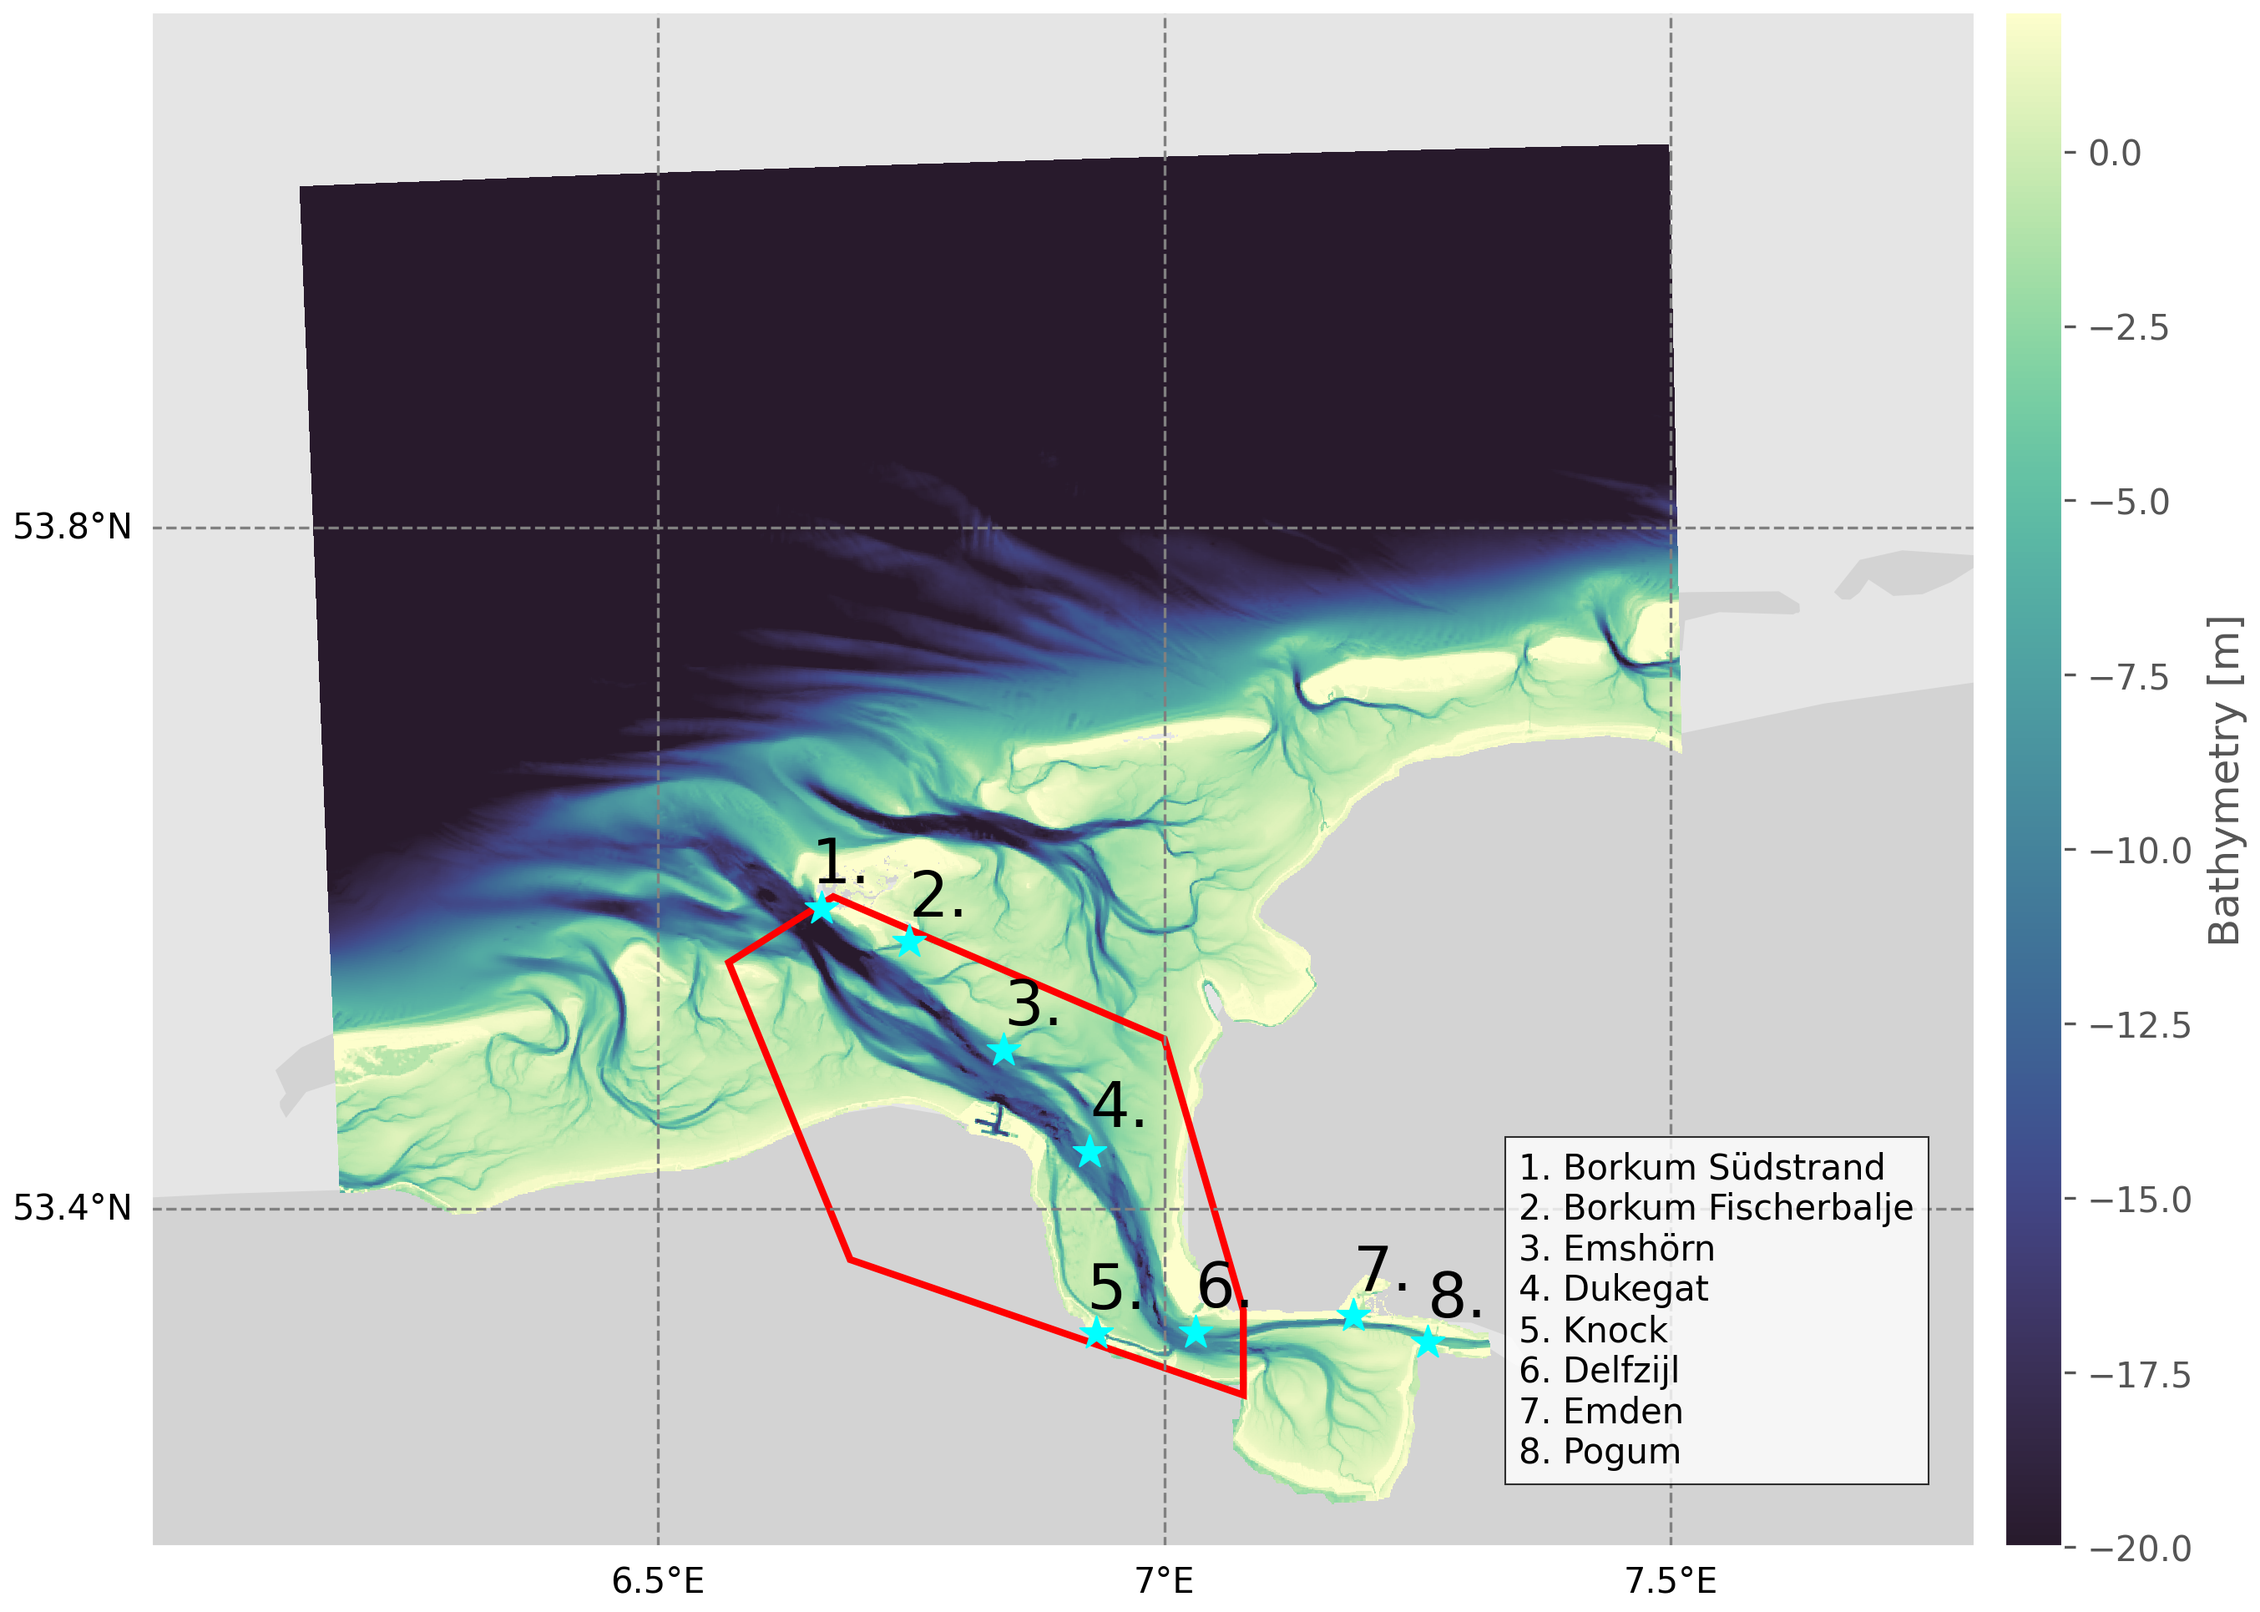
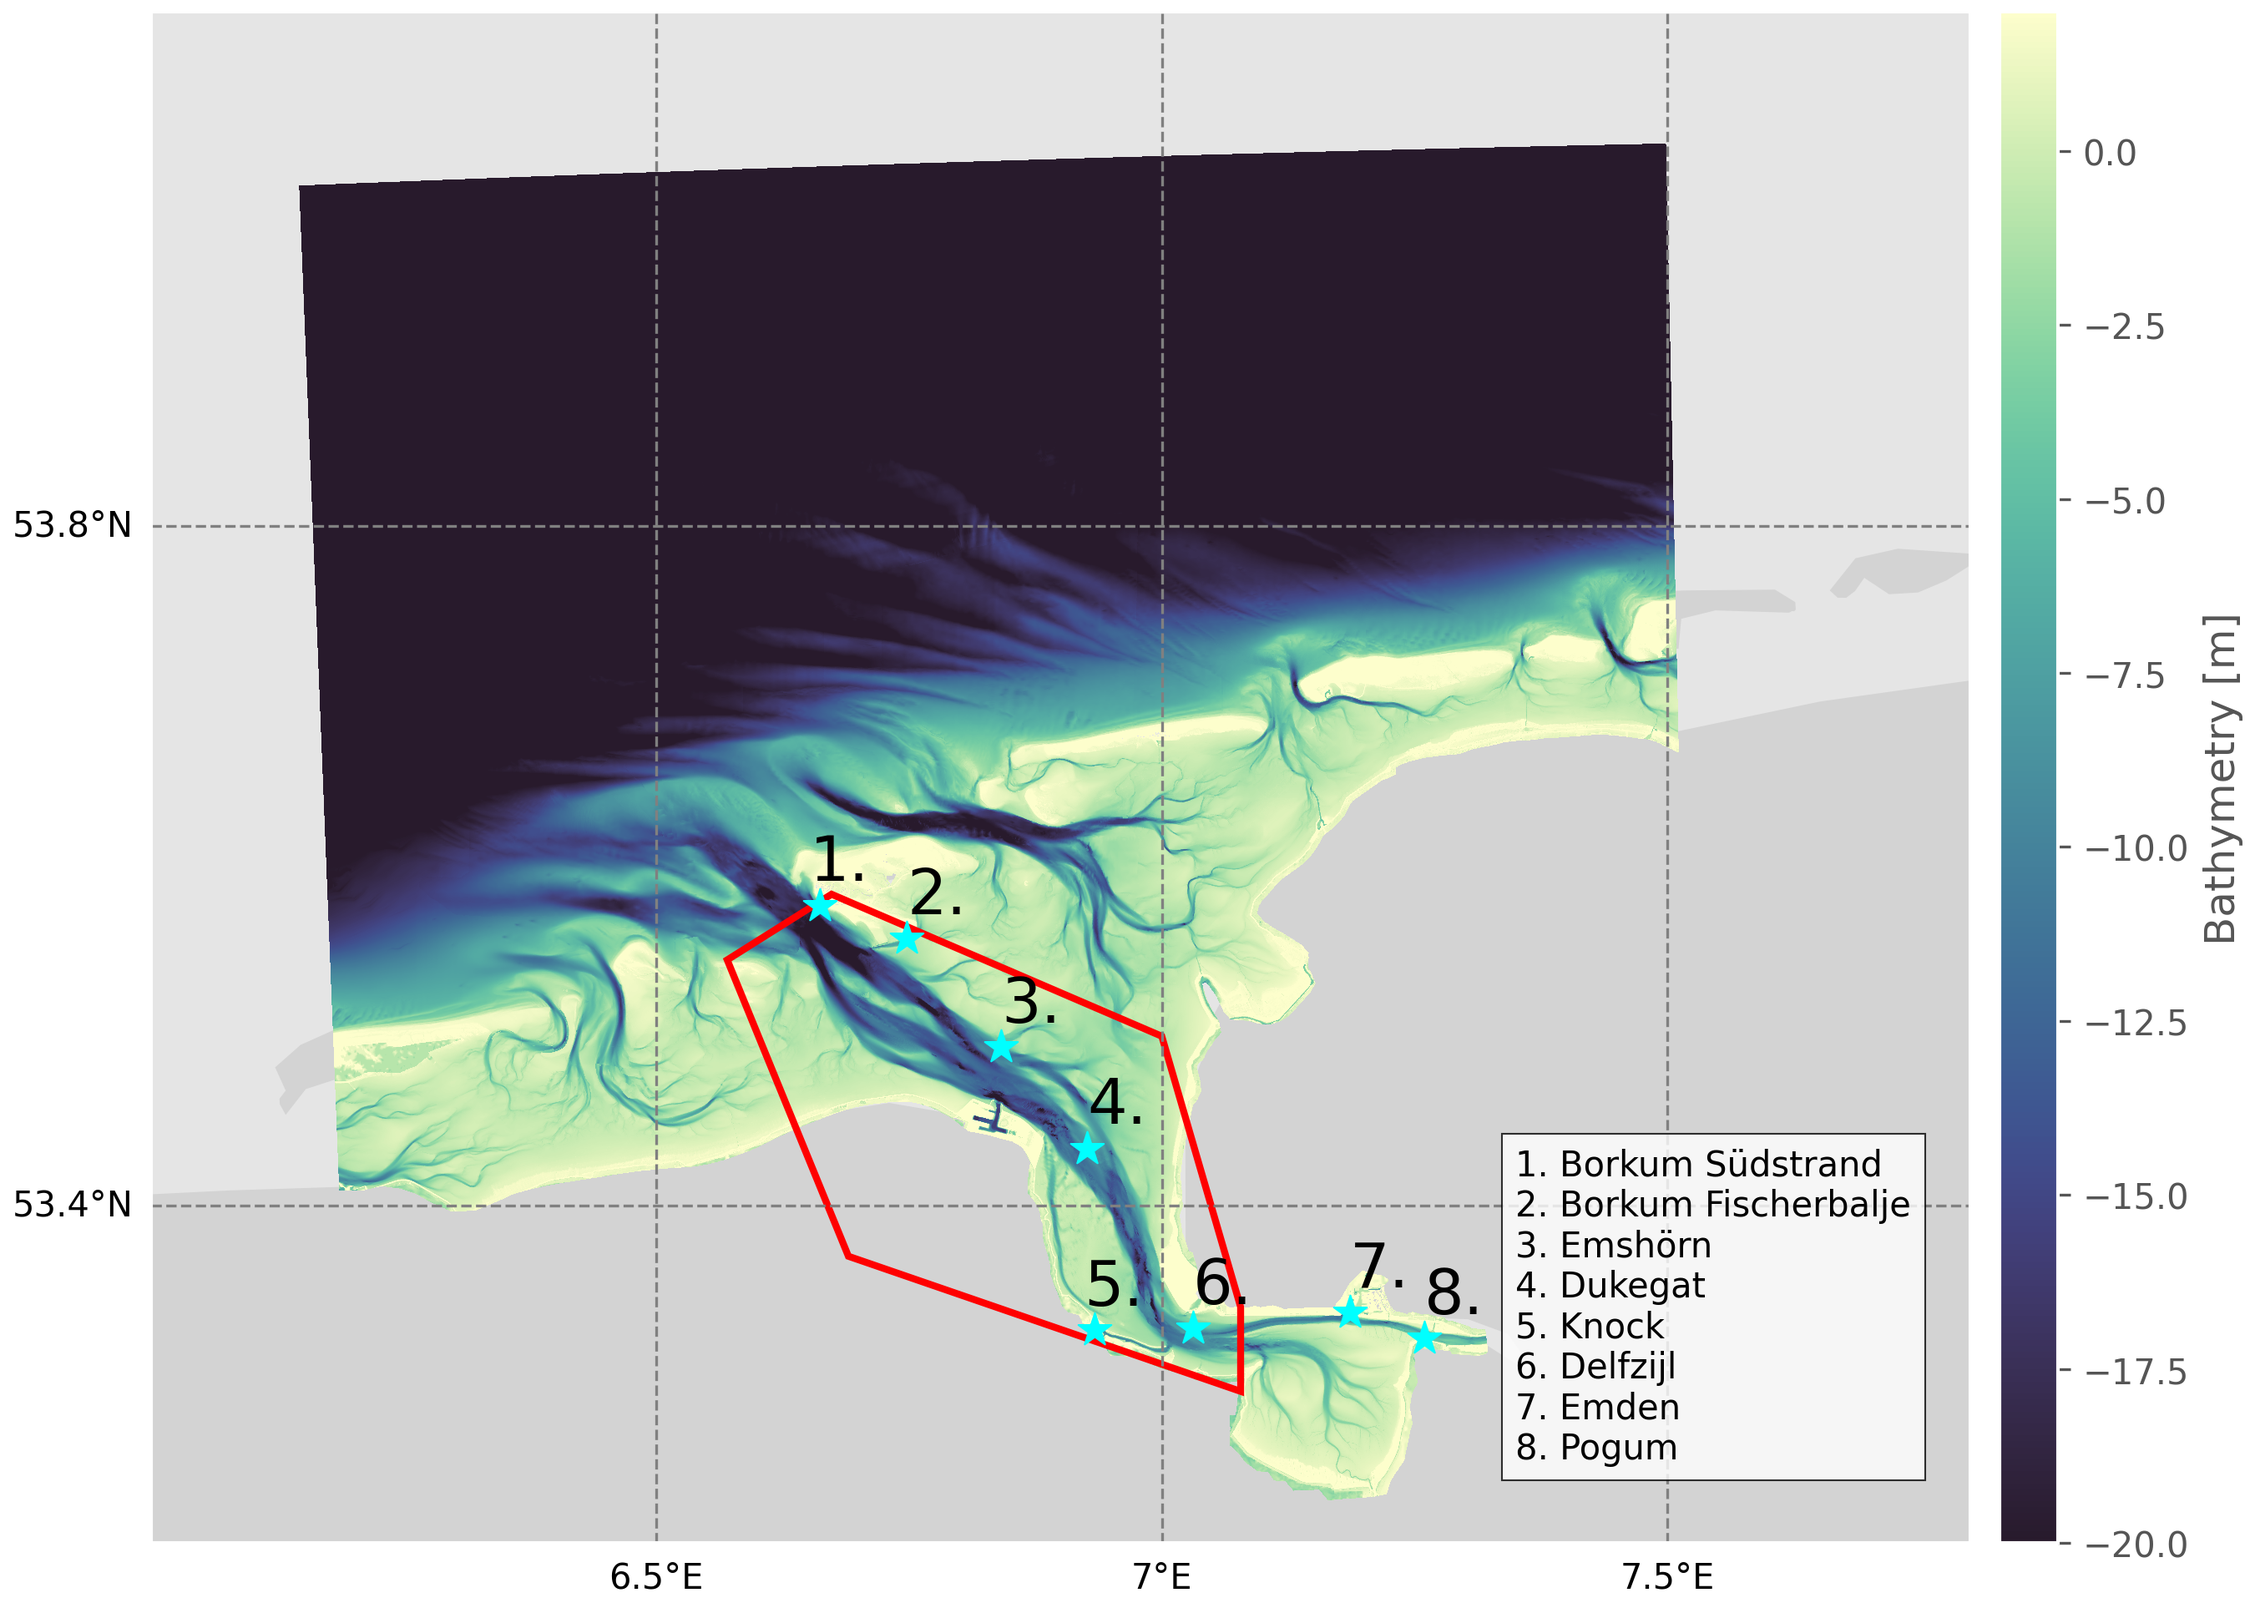
remove unncessary lines

Changed region(s): [[0.6842, 0.7165, 0.8397, 0.9034], [0.9641, 0.5296, 0.9952, 0.5607], [0.5909, 0.7788, 0.622, 0.81]]

diff --git a/scripts/visualization/Figure1.py b/scripts/visualization/Figure1.py
@@ -1,10 +1,5 @@
 #!/usr/bin/env python3
 # -*- coding: utf-8 -*-
-"""
-Created on Mon Dec  8 11:50:04 2025
-
-@author: kbhaakman
-"""
 
 import matplotlib.pyplot as plt
 import sys #to be able to load functions from paper_helper_functions.py inside analysis folder
@@ -39,7 +34,6 @@ polygon_enclosed = [
 poly_enclosed = Polygon(polygon_enclosed, edgecolor='red', facecolor='none', linewidth=2, transform=ccrs.PlateCarree())
 
 def main():
-    
     lons, lats = [], []
     PSMSL_lons, PSMSL_lats = [], []
 
@@ -53,16 +47,13 @@ def main():
             lons.append(lon)
             lats.append(lat)
         
-    
     fig = plt.figure(figsize=(11.69,8.27))
     ax = fig.add_subplot(1, 1, 1, projection=ccrs.Mercator(central_longitude=0))
     ax.scatter(lons, lats, c='cyan', s=100, marker='*', label='Not in PSMSL', transform=ccrs.PlateCarree(), zorder=10)
     ax.scatter(PSMSL_lons, PSMSL_lats, c='cyan', s=100, marker='*', label='PSMSL',  transform=ccrs.PlateCarree(), zorder=10)
-    bathy_im = plot_bathymetry_ems(ax, downsampling_factor=8)
+    bathy_im = plot_bathymetry_ems(ax, downsampling_factor=1)
     ax.add_patch(poly_enclosed)
     ax.add_feature(cfeature.LAND, facecolor='lightgray')
-    #ax.coastlines()
-    #ax.legend(loc='lower left')
     
     dy = 0.015
     fs = 18
@@ -89,7 +80,6 @@ def main():
         gl.ylocator = lat_gridlines
     except NameError:
         pass
-    
     
 
     # Make numbered multiline string

diff --git a/scripts/analysis/paper_helper_functions.py b/scripts/analysis/paper_helper_functions.py
@@ -1,10 +1,6 @@
 #!/usr/bin/env python3
 # -*- coding: utf-8 -*-
-"""
-Created on Mon Jul 13 11:37:39 2026
 
-@author: kbhaakman
-"""
 import numpy as np
 from pyproj import Transformer
 import matplotlib.pyplot as plt
@@ -74,7 +70,7 @@ def downsample_average(array, factor):
 
 
 def plot_bathymetry_ems(ax, downsampling_factor=8):
-    fn = '/Users/kbhaakman/Documents/PhD/data/EasyGSH-DB_bathymetry_harmonized_nodata/topography_2009_ger.tif'
+    fn = '../../data/bathymetry/topography_2009_ger.tif'
     lon_min, lon_max = 6.2, 7.5
     lat_min, lat_max = 53.2, 54.0
     
@@ -153,7 +149,7 @@ def spatial_map(x, y, z, fig=None, ax=None, vmin=None, vmax=None, cmap=None, alp
     ax.set_title(title)
     #fig.canvas.callbacks.connect('pick_event', on_pick)
     if savename != '':
-        fig.savefig('/Users/kbhaakman/Desktop/{}'.format(savename), dpi=300, bbox_inches='tight', pad_inches=0.05)
+        fig.savefig('../../figures/{}'.format(savename), dpi=300, bbox_inches='tight', pad_inches=0.05)
     return fig, ax
 
 

diff --git a/scripts/visualization/Figure2.py b/scripts/visualization/Figure2.py
@@ -1,10 +1,6 @@
 #!/usr/bin/env python3
 # -*- coding: utf-8 -*-
-"""
-Created on Mon Nov  3 11:58:55 2025
 
-@author: kbhaakman
-"""
 import numpy as np
 import pandas as pd
 import matplotlib.pyplot as plt
@@ -13,8 +9,6 @@ plt.style.use('ggplot')
 plt.rcParams.update({'font.size': 16})
 
 percentile = 1  # for example
-#fn = '/Users/kbhaakman/Documents/PhD/tidal-asymmetry-trends/data/Quantile Regression-based Elevation Changes per Region.xlsx'
-#sheet = 'Ems-Dollard'
 
 fn = '../../data/bathymetry/Quantile Regression-based Elevation Changes per Morph. Unit.xlsx'
 sheet = 'EemsDollard'

diff --git a/scripts/analysis/DCSM_his_dynamic_meteo_dynamic_bathymetry.py b/scripts/analysis/DCSM_his_dynamic_meteo_dynamic_bathymetry.py
@@ -1,23 +1,15 @@
 #!/usr/bin/env python3
 # -*- coding: utf-8 -*-
-"""
-Created on Fri Jan 16 11:52:44 2026
 
-@author: kbhaakman
-"""
 import numpy as np
 import xarray as xr
 import matplotlib.pyplot as plt
 import pandas as pd
 import re
 import hatyan
-
-
 plt.style.use('ggplot')
 
 station = 'knock'
-
-
 
 DCSM_names = {
   'borkumfischerbalje': 'BorkumFischerbalje',

diff --git a/scripts/visualization/Figure7.py b/scripts/visualization/Figure7.py
@@ -1,10 +1,6 @@
 #!/usr/bin/env python3
 # -*- coding: utf-8 -*-
-"""
-Created on Mon Jul 20 11:47:14 2026
 
-@author: kbhaakman
-"""
 import matplotlib.pyplot as plt
 import numpy as np
 from matplotlib.ticker import MaxNLocator

diff --git a/scripts/visualization/Figure6.py b/scripts/visualization/Figure6.py
@@ -1,10 +1,6 @@
 #!/usr/bin/env python3
 # -*- coding: utf-8 -*-
-"""
-Created on Tue Aug 18 11:28:46 2026
 
-@author: kbhaakman
-"""
 import numpy as np
 import matplotlib.pyplot as plt
 import cartopy.crs as ccrs

diff --git a/scripts/visualization/Figure5.py b/scripts/visualization/Figure5.py
@@ -1,10 +1,6 @@
 #!/usr/bin/env python3
 # -*- coding: utf-8 -*-
-"""
-Created on Mon Jul 20 14:19:20 2026
 
-@author: kbhaakman
-"""
 import numpy as np
 import cmcrameri.cm as cm
 import matplotlib.pyplot as plt

diff --git a/scripts/analysis/DCSM_Fourier_double_difference_MSL.py b/scripts/analysis/DCSM_Fourier_double_difference_MSL.py
@@ -1,10 +1,6 @@
 #!/usr/bin/env python3
 # -*- coding: utf-8 -*-
-"""
-Created on Fri Jul 10 13:23:55 2026
 
-@author: kbhaakman
-"""
 import numpy as np
 import xarray as xr
 import matplotlib.pyplot as plt

diff --git a/scripts/analysis/DCSM_his_static_meteo_dynamic_bathy.py b/scripts/analysis/DCSM_his_static_meteo_dynamic_bathy.py
@@ -1,10 +1,6 @@
 #!/usr/bin/env python3
 # -*- coding: utf-8 -*-
-"""
-Created on Fri Jan 16 11:52:44 2026
 
-@author: kbhaakman
-"""
 import numpy as np
 import xarray as xr
 import matplotlib.pyplot as plt

diff --git a/scripts/preprocessing/preprocess_pegelonline_data.py b/scripts/preprocessing/preprocess_pegelonline_data.py
@@ -1,10 +1,6 @@
 #!/usr/bin/env python3
 # -*- coding: utf-8 -*-
-"""
-Created on Tue Jun 24 16:13:30 2025
 
-@author: kbhaakman
-"""
 import os
 import pandas as pd
 from datetime import timezone, timedelta

diff --git a/scripts/visualization/Figure3.py b/scripts/visualization/Figure3.py
@@ -1,10 +1,5 @@
 #!/usr/bin/env python3
 # -*- coding: utf-8 -*-
-"""
-Created on Tue Aug 18 11:00:31 2026
-
-@author: kbhaakman
-"""
 
 import matplotlib.pyplot as plt
 import numpy as np

diff --git a/scripts/visualization/Figure8.py b/scripts/visualization/Figure8.py
@@ -1,10 +1,5 @@
 #!/usr/bin/env python3
 # -*- coding: utf-8 -*-
-"""
-Created on Tue Aug 18 13:09:36 2026
-
-@author: kbhaakman
-"""
 
 import numpy as np
 import matplotlib.pyplot as plt
